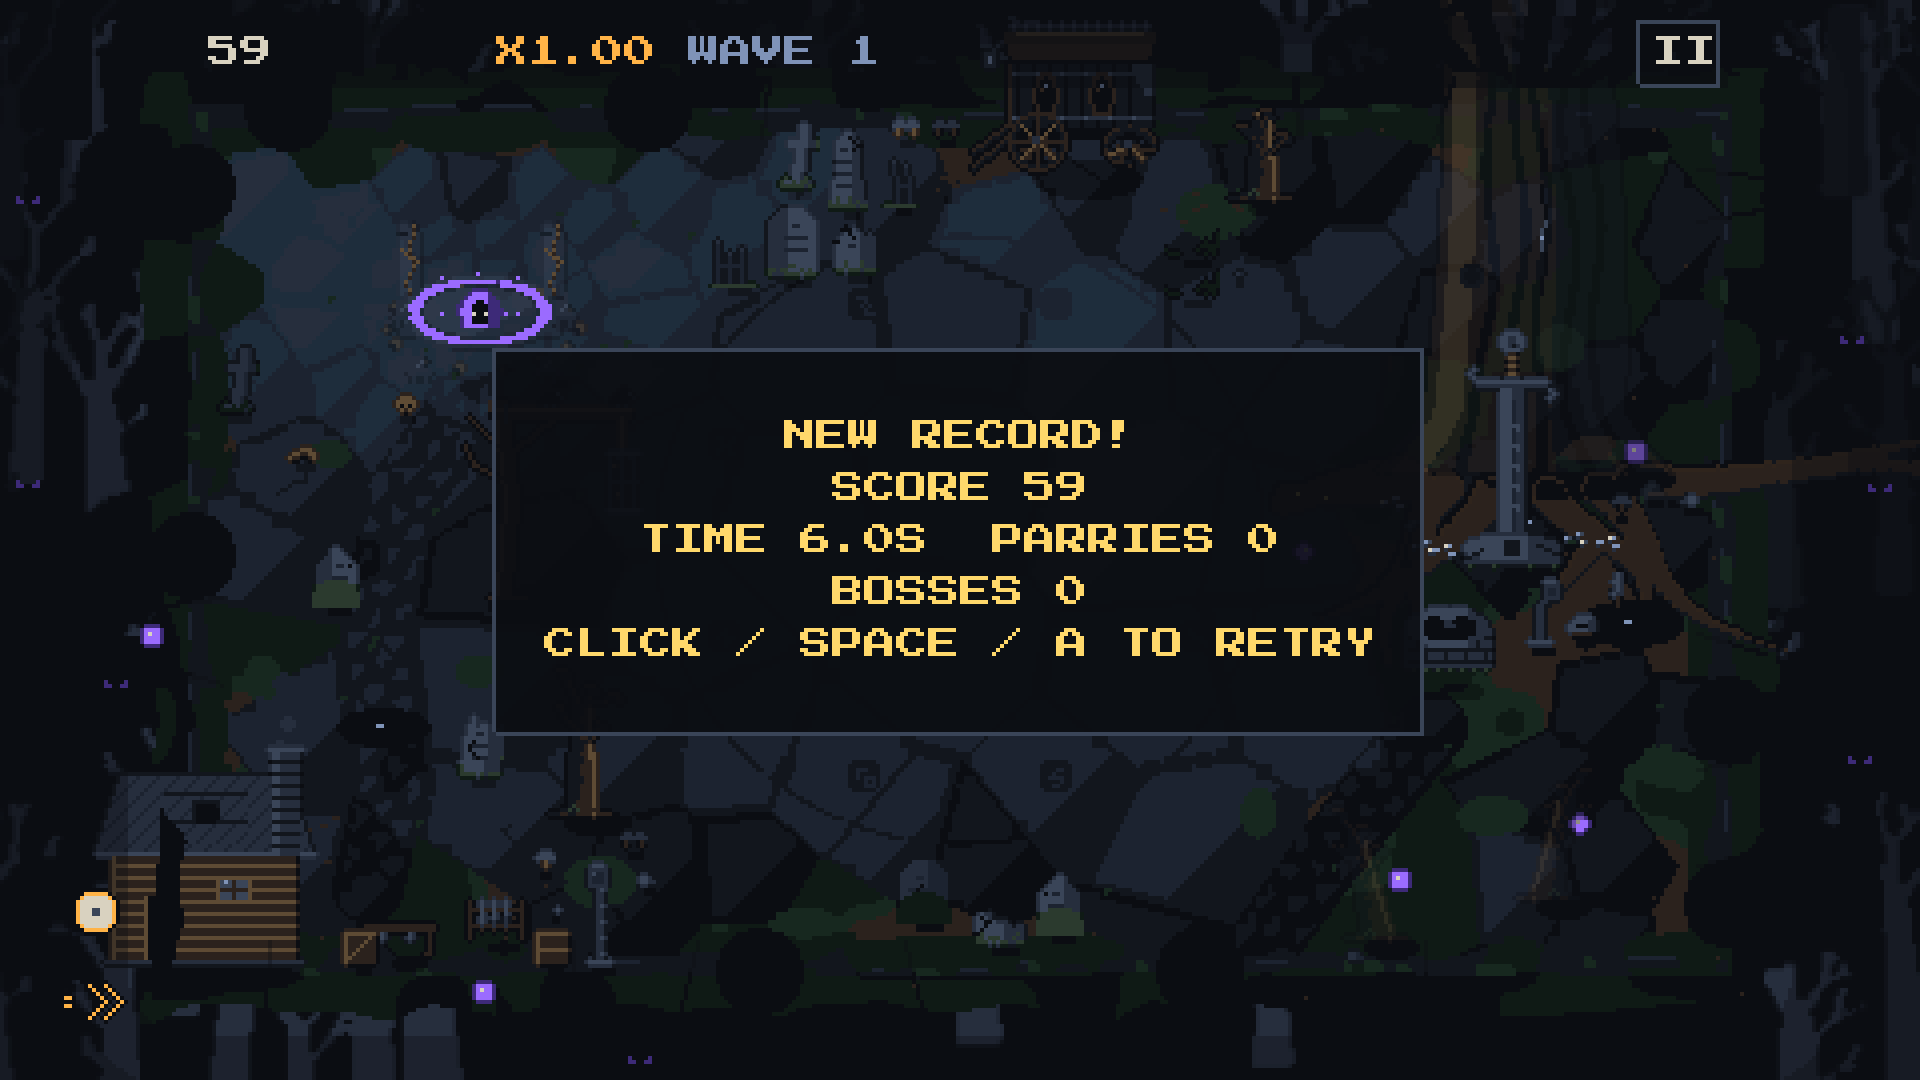
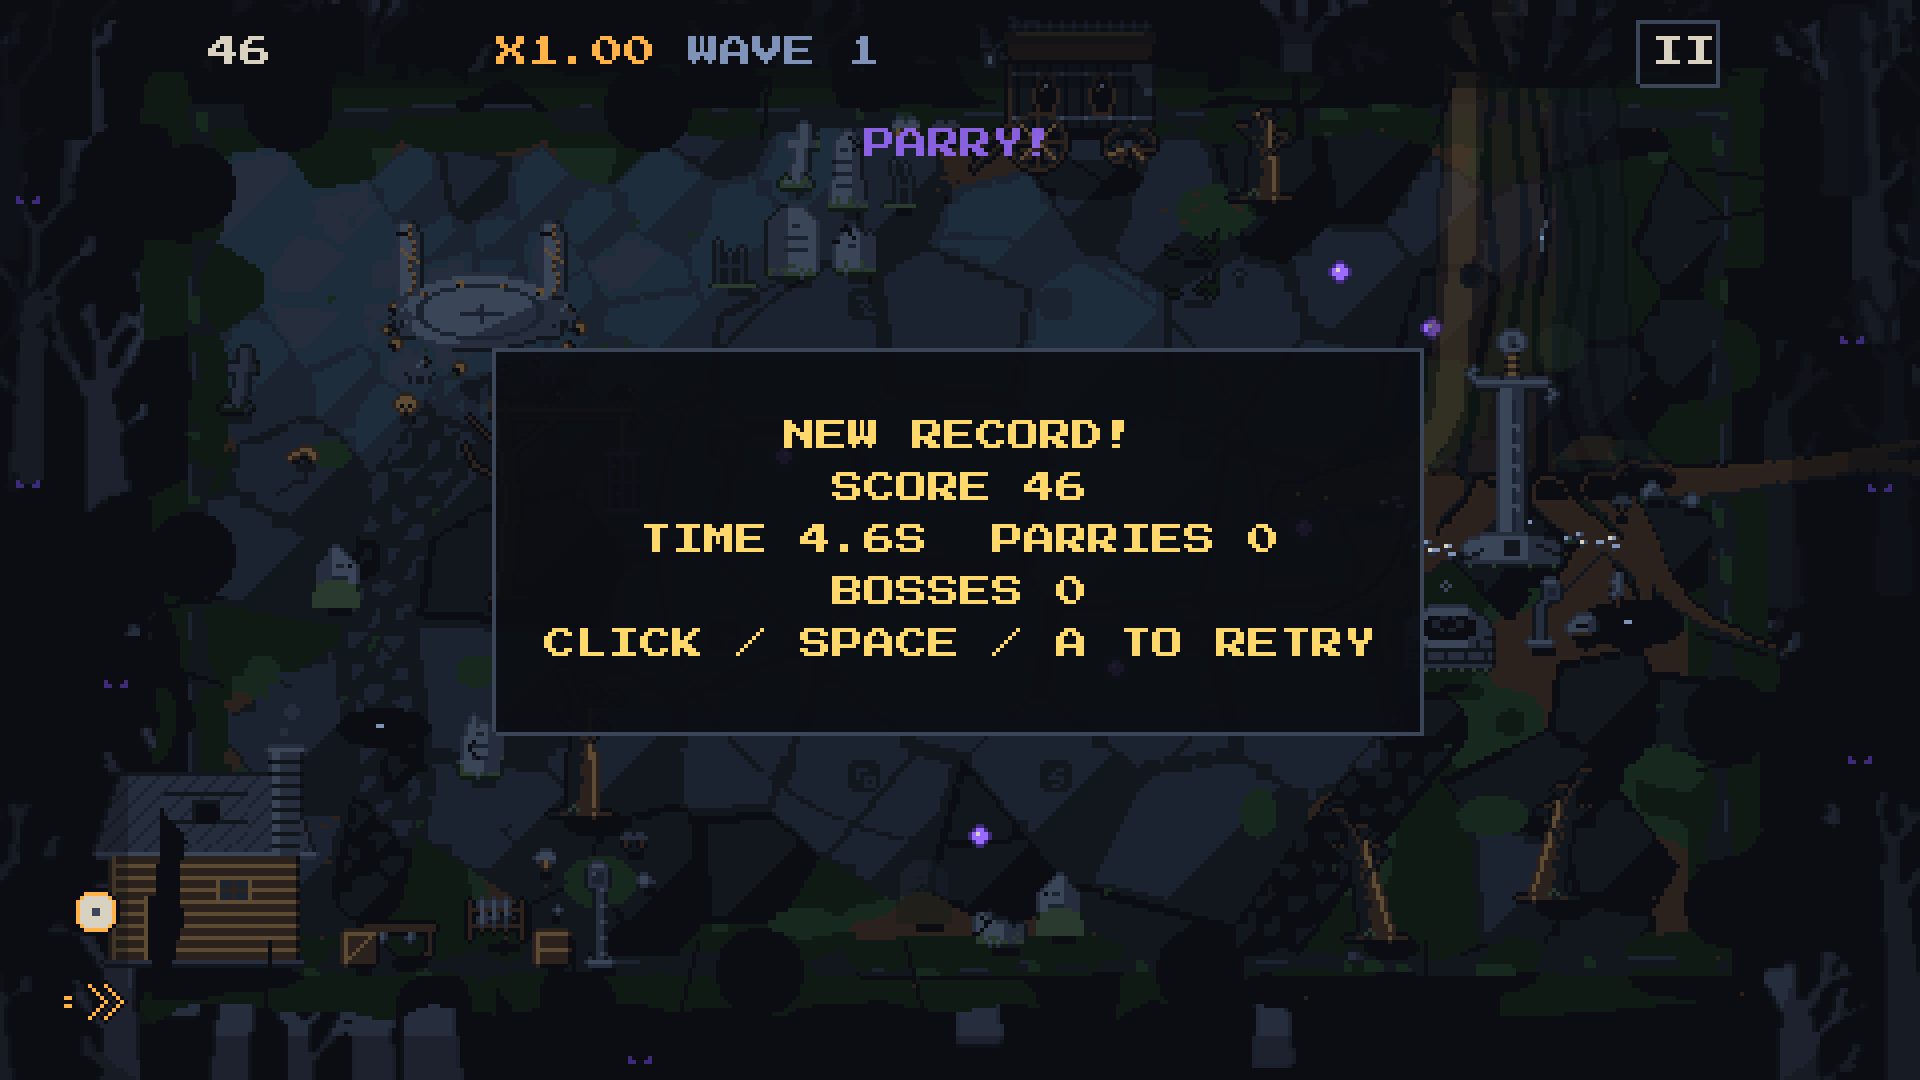
Polish 3 (1): site intro
The title letters rise out of the fog with ember sparks and a rune glow,
then the menu fades in (2.5 s). Once per browser session (sessionStorage,
blocked storage safe), skippable by any key / click / tap / pad button
without passing the input on, no sparks or glow with reduced flashes, a
quiet sting through the audio system. e2e scripts mark it as seen.
assets/preview/intro_frame.png.

Claude-Session: https://claude.ai/code/session_01Ng2YPPjcRqgbh5YHv3EBEA

diff --git a/src/render/TitleScene.ts b/src/render/TitleScene.ts
@@ -13,6 +13,24 @@ import { ARENA_PROPS, ATLAS, MANIFEST, bgKey, createAnimations, frame, preloadAs
 import { bestPage, creditsPage, DIFF_LABEL, heroPage, settingsPage, type MenuCtx } from './menus';
 import { controlsLine, getDevice } from './hints';
 import { C, FONT, MenuView, type MenuPage } from './ui';
+import { addText } from './text';
+import { emitAudioEvent } from './events';
+
+/** The intro plays once per browser session (sessionStorage; blocked storage = play it, never crash). */
+function introSeen(): boolean {
+  try {
+    return sessionStorage.getItem('nightgrave.intro') === '1';
+  } catch {
+    return false;
+  }
+}
+function markIntroSeen(): void {
+  try {
+    sessionStorage.setItem('nightgrave.intro', '1');
+  } catch {
+    /* blocked */
+  }
+}
 
 export interface TitleConfig {
   isTouch: () => boolean;
@@ -62,7 +80,54 @@ export class TitleScene extends Phaser.Scene {
     audio.setAmbience(false);
     this.showMain();
     void this.loadBoard();
+    if (!introSeen()) this.playIntro();
   }
+
+  /**
+   * Site-entry intro (2-3 s, once per browser session): the title letters rise out of the fog with a few ember sparks
+   * and a rune glow, then the menu fades in. Any input skips it and is NOT passed on; reduced flashes: no sparks/glow.
+   */
+  private playIntro(): void {
+    markIntroSeen();
+    this.menu.active = false; // the menu ignores keys / pad while the intro runs
+    const calm = save().settings.reducedFlashes;
+    const objs: Phaser.GameObjects.GameObject[] = [];
+    const cover = this.add.rectangle(0, 0, VIEW_WIDTH, VIEW_HEIGHT, 0x0b0d12, 0.92).setOrigin(0).setDepth(1100).setInteractive();
+    objs.push(cover);
+    const word = TITLE.toUpperCase();
+    const x0 = VIEW_WIDTH / 2 - (word.length * 16) / 2;
+    [...word].forEach((ch, i) => {
+      const t = addText(this, x0 + i * 16, 128, ch, { size: 16, color: C.bone }).setDepth(1102).setAlpha(0);
+      this.tweens.add({ targets: t, y: 108, alpha: 1, delay: 120 + i * 110, duration: 520, ease: 'Sine.easeOut' });
+      objs.push(t);
+    });
+    if (!calm) {
+      const ring = this.add.circle(VIEW_WIDTH / 2, 116, 4, 0x9b6bff, 0).setStrokeStyle(1, 0x9b6bff, 0.8).setDepth(1101);
+      this.tweens.add({ targets: ring, radius: 70, alpha: 0, duration: 1400, delay: 500 });
+      objs.push(ring);
+      for (let k = 0; k < 10; k++) {
+        const sp = this.add.sprite(x0 + ((k * 37) % (word.length * 16)), 140, ATLAS, frame('ember_particle')).setDepth(1103);
+        this.tweens.add({ targets: sp, y: 70 + (k % 4) * 8, alpha: 0, delay: 300 + k * 140, duration: 1100 });
+        objs.push(sp);
+      }
+      emitAudioEvent('rune_charge');
+    }
+    let done = false;
+    const finish = () => {
+      if (done) return;
+      done = true;
+      this.input.keyboard?.off('keydown', skip);
+      this.tweens.add({ targets: objs, alpha: 0, duration: 260, onComplete: () => objs.forEach((o) => o.destroy()) });
+      this.time.delayedCall(140, () => (this.menu.active = true));
+    };
+    const skip = () => finish();
+    cover.once('pointerdown', skip);
+    this.input.keyboard?.on('keydown', skip);
+    this.introSkip = skip;
+    this.time.delayedCall(2500, finish);
+  }
+
+  private introSkip: (() => void) | null = null;
 
   private async loadBoard(): Promise<void> {
     if (!online()) return;
@@ -157,6 +222,11 @@ export class TitleScene extends Phaser.Scene {
 
   override update(_t: number, delta: number): void {
     this.fog.tilePositionX = Math.round(Math.sin(this.time.now / 10000) * 4);
+    if (!this.menu.active && this.introSkip) {
+      const gp = this.input.gamepad;
+      const pad = gp && gp.total > 0 ? gp.pad1 : null;
+      if (pad && pad.buttons.some((b) => b.pressed)) this.introSkip();
+    }
     this.menu.pollPad(delta);
     if (getDevice() !== this.shownDevice) {
       this.shownDevice = getDevice();

diff --git a/tools/validate_palette.py b/tools/validate_palette.py
@@ -29,7 +29,8 @@ PALETTE_EXEMPT = {"translucency_demo.png", "arena_board.png", "style_board.png",
                   "arena_v4_compare.png", "cabin_closeup.png", "forest_top_closeup.png",
                   "boss_fight_eye.png", "boss_fight_lich.png",  # real game screenshots (alpha, tints)
                   "menu_title.png", "menu_hero.png", "menu_settings.png", "death_panel.png", "touch_layout.png",
-                  "heroes_compare.png", "crisp_dpr125.png", "dash_chevron.png", "best_scores.png", "first_run_hint.png"}
+                  "heroes_compare.png", "crisp_dpr125.png", "dash_chevron.png", "best_scores.png", "first_run_hint.png",
+                  "intro_frame.png", "desktop_layout.png", "desktop_layout_1366.png", "phone_portrait.png", "phone_landscape.png", "phone_board.png"}
 # Glow overlays are accents OF a landmark: their bright pixels (x placed copies) count against the parent's 2%.
 ACCENT_PARENT = {"giant_tree_crack": "giant_tree", "glow_mushrooms": "giant_tree"}
 # v2 value hierarchy: share of bone/moon-bright pixels allowed per arena sprite (decor: none; landmarks: accents)

diff --git a/tools/gen_assets.py b/tools/gen_assets.py
@@ -20,7 +20,8 @@ from nglib import canvas as C  # noqa: E402
 from nglib import spec  # noqa: E402
 from nglib.pack import pack  # noqa: E402
 
-SCREENSHOT_PREFIXES = ("boss_fight_", "menu_", "death_panel", "touch_layout", "crisp_", "dash_chevron", "best_scores", "first_run_hint")
+SCREENSHOT_PREFIXES = ("boss_fight_", "menu_", "death_panel", "touch_layout", "crisp_", "dash_chevron", "best_scores", "first_run_hint",
+                       "intro_frame", "desktop_layout", "phone_")
 ROOT = os.path.dirname(os.path.dirname(os.path.abspath(__file__)))
 ASSETS = os.path.join(ROOT, "assets")
 
